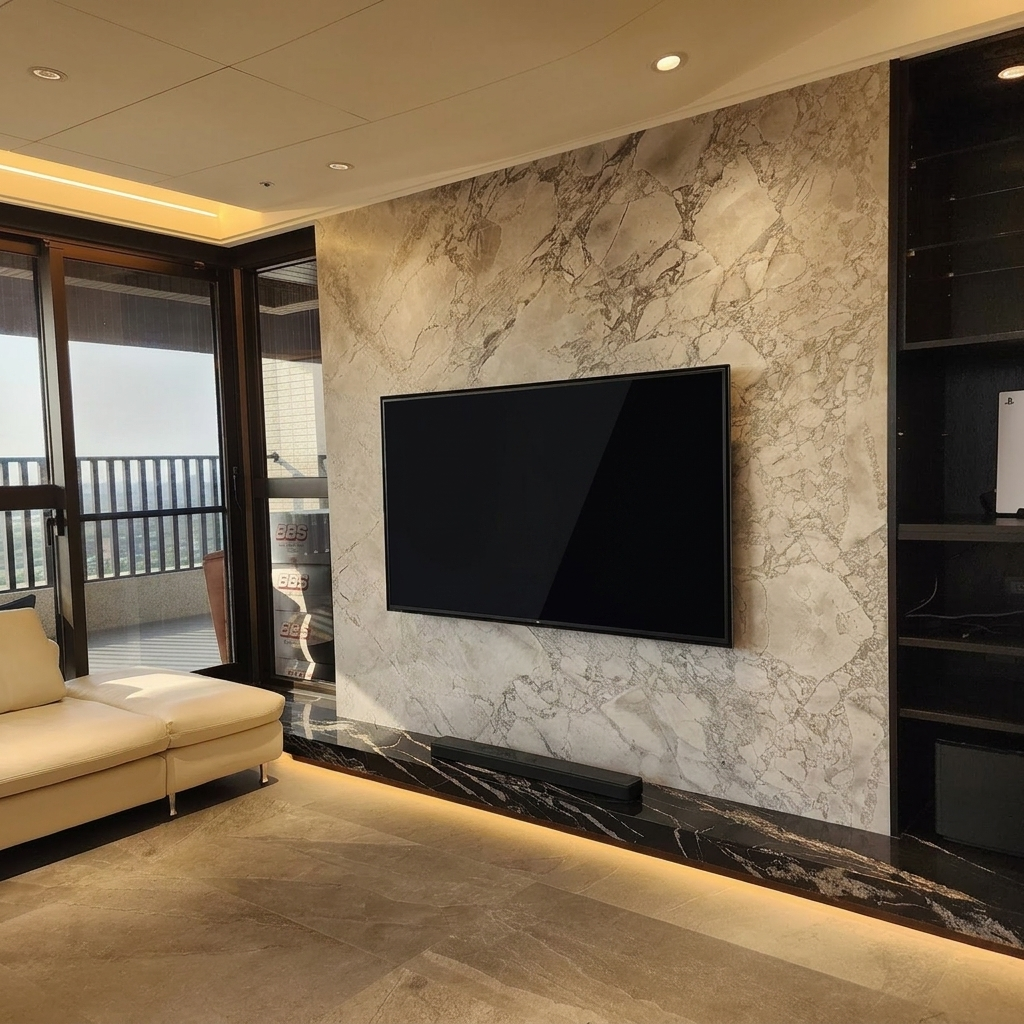
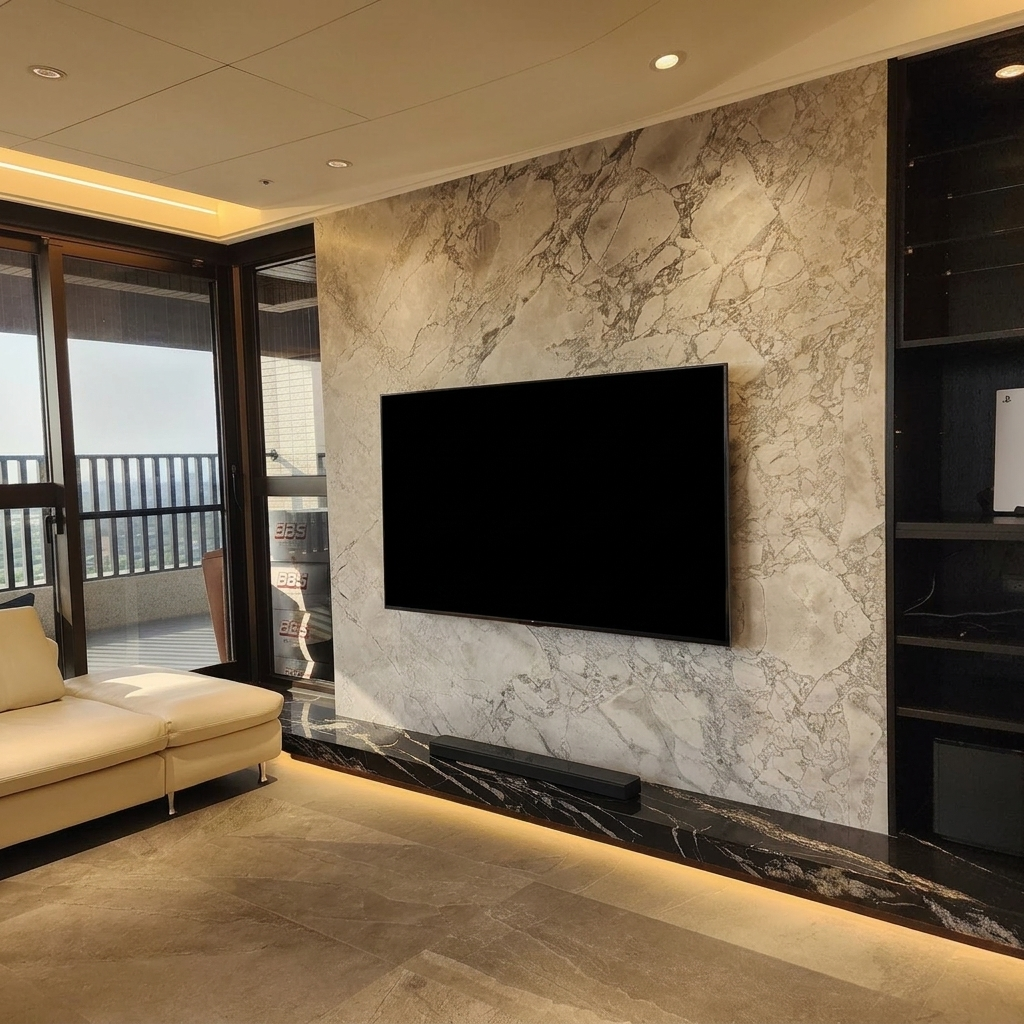
refactor: update portfolio layout to masonry grid and simplify stack item image styling with new asset support

diff --git a/portfolio.html b/portfolio.html
@@ -32,18 +32,21 @@
         padding-bottom: 80px;
       }
 
-      
       .portfolio-grid {
-        display: grid;
-        grid-template-columns: repeat(auto-fill, minmax(400px, 1fr));
-        gap: 3rem 2rem;
+        column-count: 2;
+        column-gap: 2rem;
         padding-bottom: 100px;
       }
       
+      .portfolio-card {
+        display: block;
+        break-inside: avoid;
+        margin-bottom: 3rem;
+      }
+      
       .portfolio-card img {
-        height: 500px;
+        height: auto;
         width: 100%;
-        object-fit: cover;
       }
       
       .portfolio-card-info {

diff --git a/case-study.html b/case-study.html
@@ -101,12 +101,8 @@
       .cs-stack-item img {
         width: 100%;
         height: auto;
-        /* Reserve space before load: with height:auto a not-yet-loaded
-           lazy image is 0px tall, so it never intersects the viewport and
-           never loads. A floor breaks that deadlock (real heights exceed it). */
+        /* Reserve space before load */
         min-height: 320px;
-        max-height: 85vh;
-        object-fit: cover;
         background-color: rgba(255, 255, 255, 0.03);
       }
       .cs-stack-caption {
